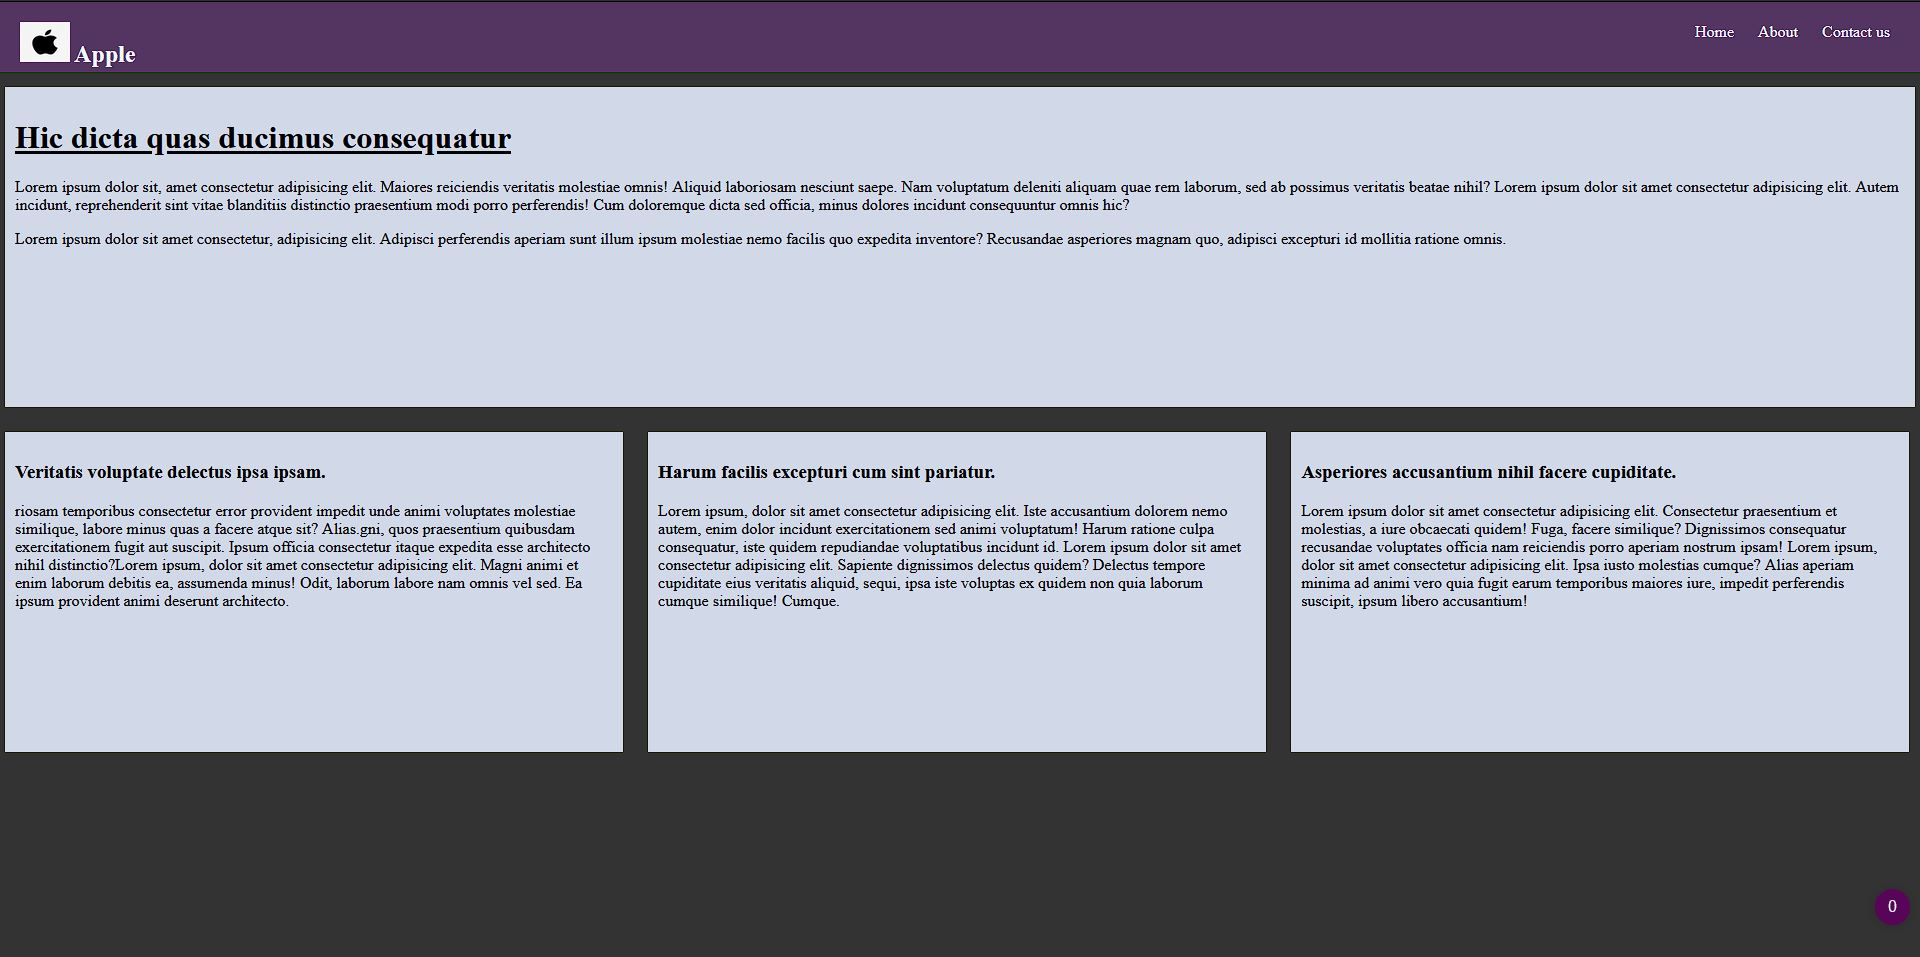
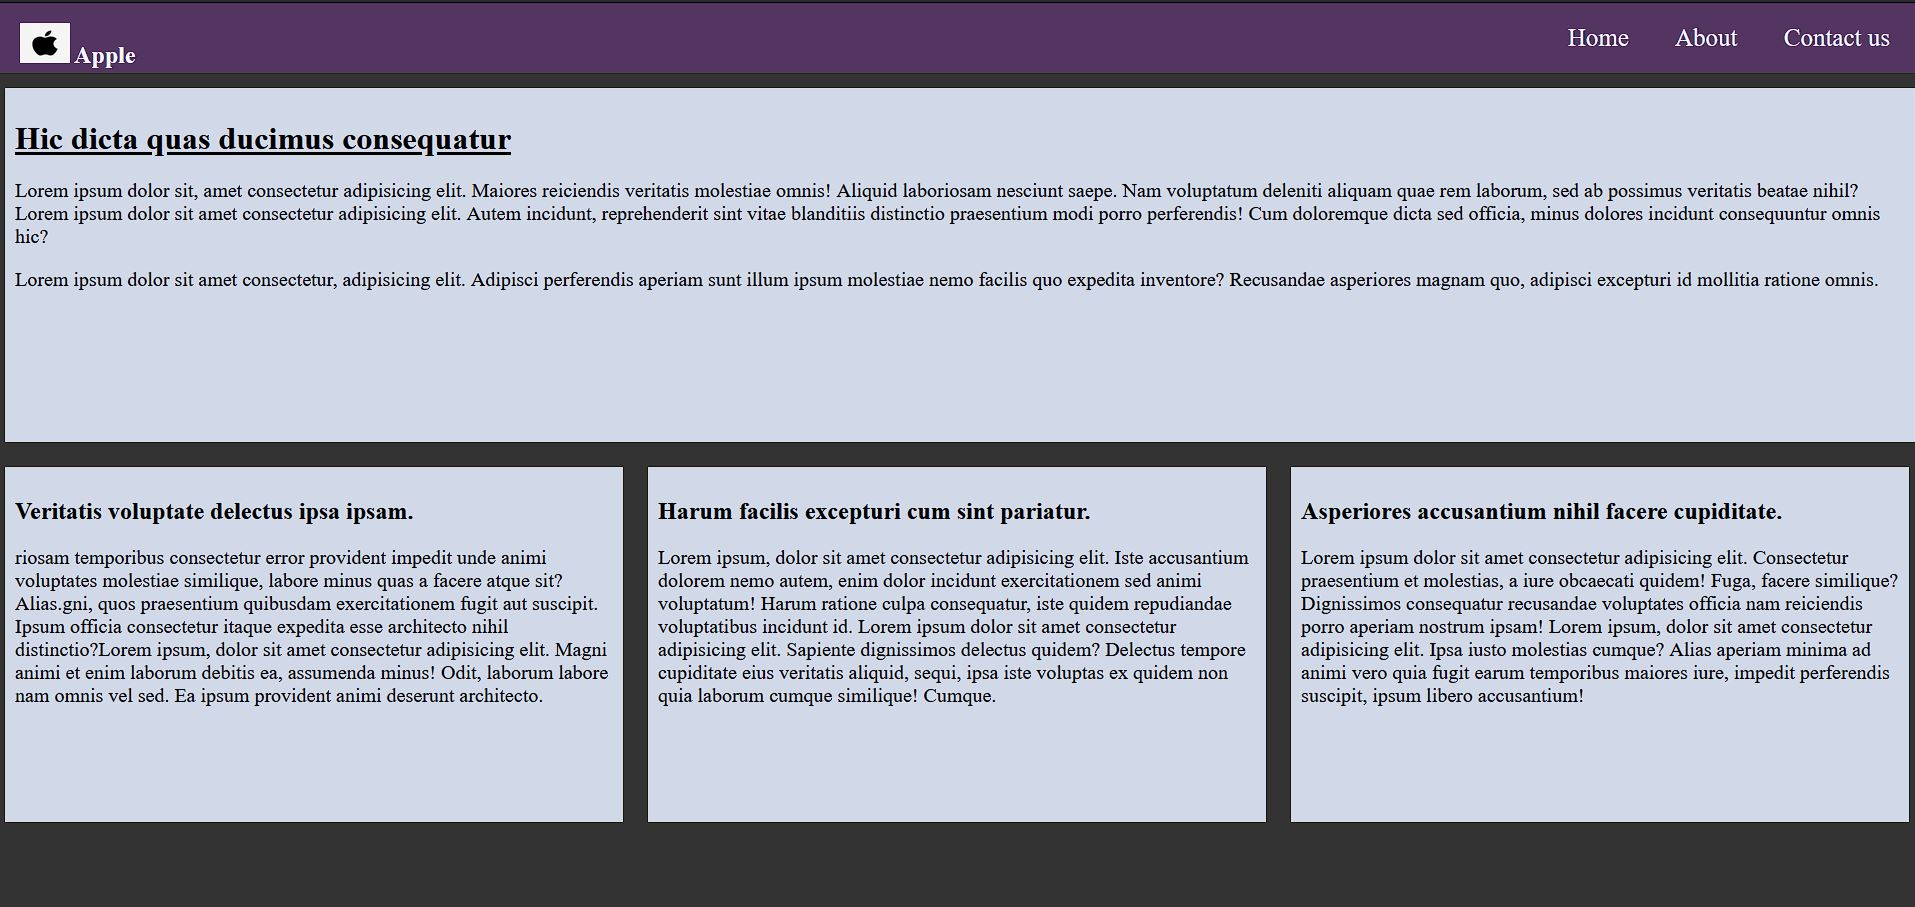
Fixes

diff --git a/task-1/index.html b/task-1/index.html
@@ -37,9 +37,9 @@
       </p>
     </div>
     <div class="boxes m-r m-l first">
-      <h3>
+      <h2>
         Veritatis voluptate delectus ipsa ipsam.
-      </h3>
+      </h2>
       <p>
         riosam temporibus consectetur error provident impedit unde animi
         voluptates molestiae similique, labore minus quas a facere atque sit?
@@ -51,9 +51,9 @@
       </p>
     </div>
     <div class="boxes m-r second">
-      <h3>
+      <h2>
         Harum facilis excepturi cum sint pariatur.
-      </h3>
+      </h2>
       <p>
         Lorem ipsum, dolor sit amet consectetur adipisicing elit. Iste
         accusantium dolorem nemo autem, enim dolor incidunt exercitationem sed
@@ -65,9 +65,9 @@
       </p>
     </div>
     <div class="boxes third">
-      <h3>
+      <h2>
         Asperiores accusantium nihil facere cupiditate.
-      </h3>
+      </h2>
       <p>
         Lorem ipsum dolor sit amet consectetur adipisicing elit. Consectetur
         praesentium et molestias, a iure obcaecati quidem! Fuga, facere

diff --git a/task-1/css/style.css b/task-1/css/style.css
@@ -53,6 +53,7 @@ a {
   text-decoration: none;
   color: aliceblue;
   padding: 10px;
+  margin-left: 20px;
 }
 p {
   font-size: 20px;

diff --git a/README.md b/README.md
@@ -11,7 +11,7 @@
 
 | Requirements                            | Output                           |
 | --------------------------------------- | -------------------------------- |
-| ![task-1](task-1/images/task1_ques.jpg) | ![out1](task-1/images/task-1.jpg) |
+| ![task-1](task-1/images/task1_ques.jpg) | ![out1](task-1/images/task1.jpg) |
 | ![task-2](task-2/images/task2_ques.jpg) | ![out2](task-2/images/task2.jpg) |
 | ![task-4](task-4/images/task4_ques.jpg) | ![out4](task-4/images/task4.jpg) | 
 
